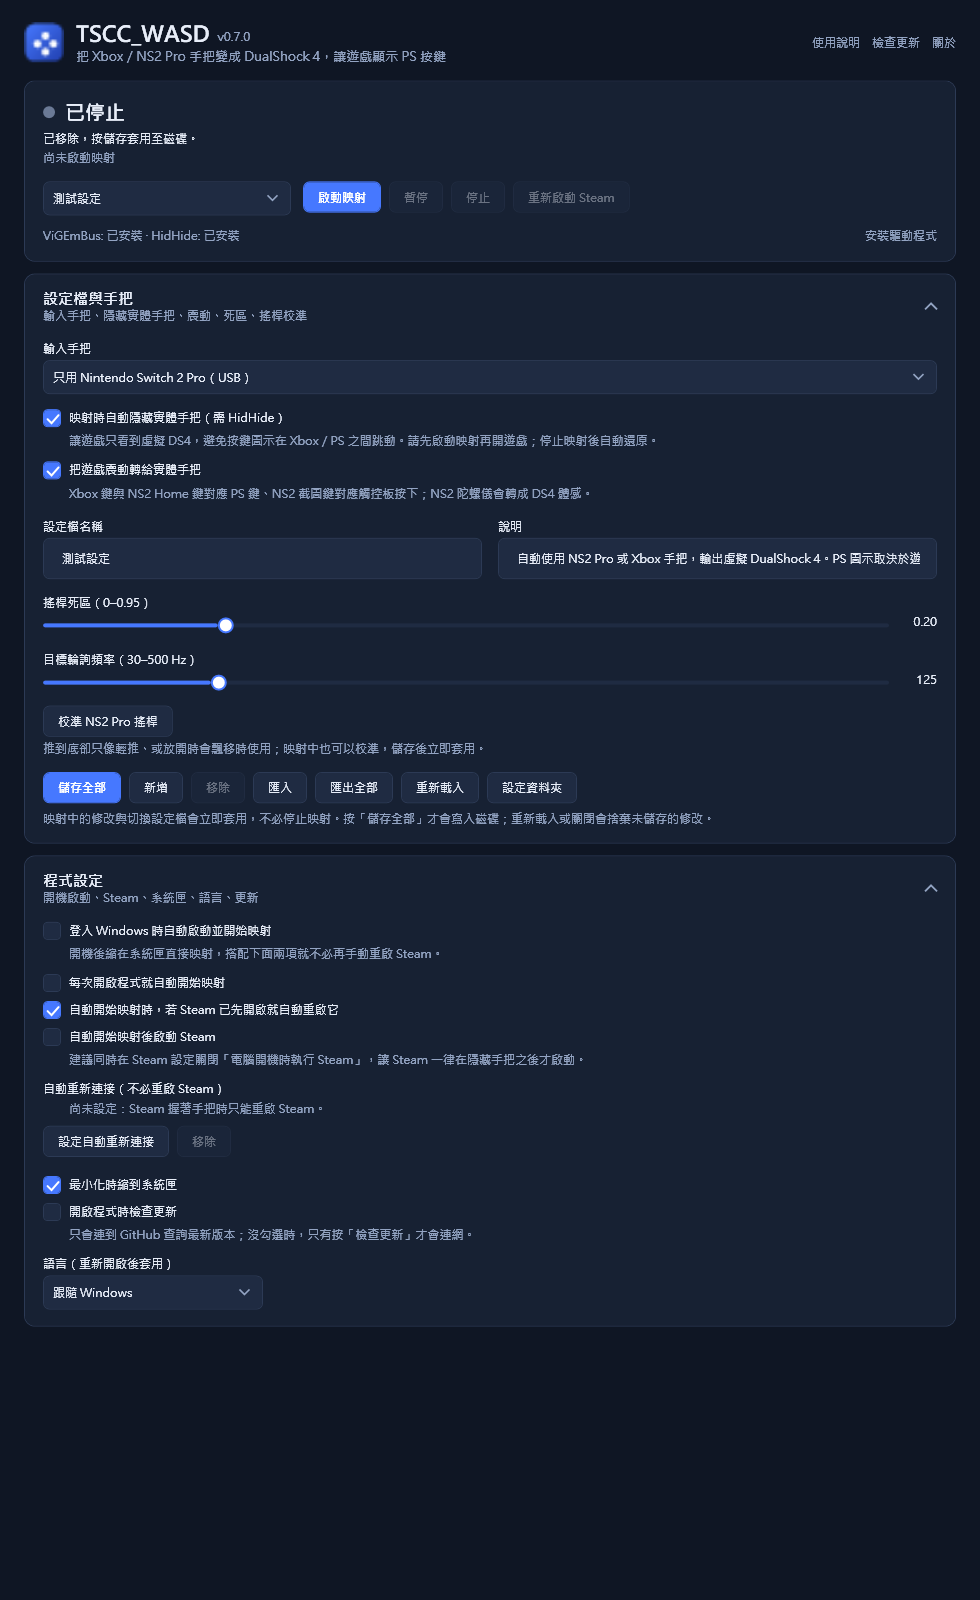
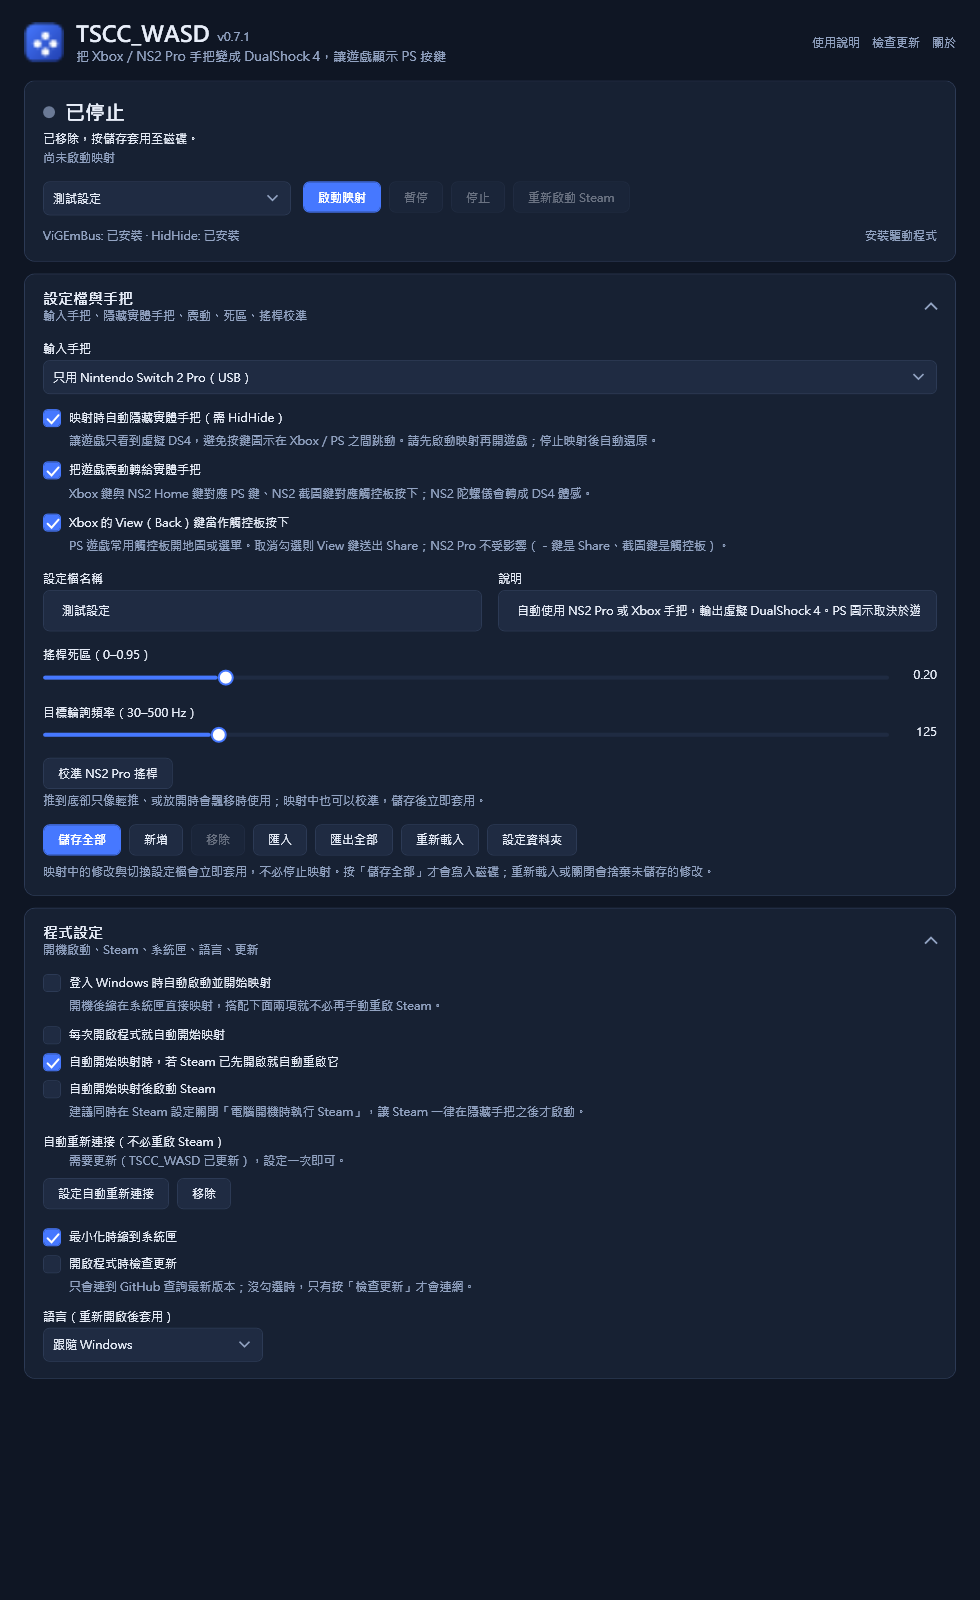
Send the Xbox View button as the DS4 touchpad click (0.7.1)
XInput has no spare button for the touchpad, so Xbox users could not press
it: View (Back) always became Share. View now sends the touchpad click by
default, with a per-profile option to keep it as Share. The NS2 Pro keeps
Minus as Share and Capture as the touchpad.

diff --git a/TSCC_WASD.App/MainWindow.xaml b/TSCC_WASD.App/MainWindow.xaml
@@ -95,6 +95,10 @@
                                       Content="{app:T Zh=把遊戲震動轉給實體手把, En='Forward game rumble to the physical controller'}"/>
                             <TextBlock Style="{StaticResource Hint}"
                                        Text="{app:T Zh='Xbox 鍵與 NS2 Home 鍵對應 PS 鍵、NS2 截圖鍵對應觸控板按下；NS2 陀螺儀會轉成 DS4 體感。', En='Xbox Guide and NS2 Home map to PS, NS2 Capture to touchpad click, and the NS2 gyro becomes DS4 motion.'}"/>
+                            <CheckBox IsChecked="{Binding SelectedProfile.XboxBackAsTouchpad}"
+                                      Content="{app:T Zh='Xbox 的 View（Back）鍵當作觸控板按下', En='Use the Xbox View (Back) button as the touchpad click'}"/>
+                            <TextBlock Style="{StaticResource Hint}"
+                                       Text="{app:T Zh='PS 遊戲常用觸控板開地圖或選單。取消勾選則 View 鍵送出 Share；NS2 Pro 不受影響（－鍵是 Share、截圖鍵是觸控板）。', En='PS games often open the map or menu with the touchpad. Unchecked, View sends Share. The NS2 Pro is unaffected (Minus is Share, Capture is the touchpad).'}"/>
                             <Grid Margin="0,4,0,0">
                                 <Grid.ColumnDefinitions><ColumnDefinition/><ColumnDefinition Width="16"/><ColumnDefinition/></Grid.ColumnDefinitions>
                                 <StackPanel>

diff --git a/TSCC_WASD.Core/Services/Input/XInputReader.cs b/TSCC_WASD.Core/Services/Input/XInputReader.cs
@@ -2,9 +2,28 @@ using System.Runtime.InteropServices;
 
 namespace TSCC_WASD.Core.Services.Input;
 
-/// <summary>Reads the first available XInput slot (0–3) using the Windows inbox API.</summary>
-public sealed class XInputReader : IInputReader, IRumbleTarget
+/// <summary>Readers whose Xbox View (Back) button can be sent as the DS4 touchpad click.</summary>
+public interface IXboxBackButtonOption
 {
+    bool BackAsTouchpad { get; set; }
+}
+
+/// <summary>Reads the first available XInput slot (0–3) using the Windows inbox API.</summary>
+public sealed class XInputReader : IInputReader, IRumbleTarget, IXboxBackButtonOption
+{
+    private volatile bool _backAsTouchpad = true;
+
+    /// <summary>
+    /// Xbox controllers have no touchpad button, so View (Back) stands in for it by default;
+    /// otherwise View stays Back and becomes DS4 Share.
+    /// </summary>
+    public bool BackAsTouchpad { get => _backAsTouchpad; set => _backAsTouchpad = value; }
+
+    public static GamepadButtonFlags MapBack(GamepadButtonFlags buttons, bool backAsTouchpad) =>
+        backAsTouchpad && buttons.HasFlag(GamepadButtonFlags.Back)
+            ? (buttons & ~GamepadButtonFlags.Back) | GamepadButtonFlags.Touchpad
+            : buttons;
+
     [DllImport("xinput1_4.dll", ExactSpelling = true)]
     [DefaultDllImportSearchPaths(DllImportSearchPath.System32)]
     private static extern uint XInputGetState(uint dwUserIndex, out State state);
@@ -36,6 +55,7 @@ public sealed class XInputReader : IInputReader, IRumbleTarget
             uint result = GetState(index, out state);
             if (result == 0)
             {
+                state.Gamepad.Buttons = MapBack(state.Gamepad.Buttons, _backAsTouchpad);
                 if (_slot != index) MoveRumble((int)index);
                 return true;
             }

diff --git a/TSCC_WASD.Core/Models/MappingProfile.cs b/TSCC_WASD.Core/Models/MappingProfile.cs
@@ -14,6 +14,7 @@ public class MappingProfile : INotifyPropertyChanged
     private InputDeviceType _inputType = InputDeviceType.Auto;
     private bool _hidePhysicalControllers = true;
     private bool _forwardRumble = true;
+    private bool _xboxBackAsTouchpad = true;
 
     private void Set<T>(ref T field, T value, [CallerMemberName] string? property = null)
     {
@@ -33,6 +34,12 @@ public class MappingProfile : INotifyPropertyChanged
 
     /// <summary>把遊戲送給虛擬 DS4 的震動轉給實體手把。</summary>
     public bool ForwardRumble { get => _forwardRumble; set => Set(ref _forwardRumble, value); }
+
+    /// <summary>
+    /// Xbox 的 View（Back）鍵送出 DS4 觸控板按下（PS 遊戲常用來開地圖或選單）；false 時送出 Share。
+    /// NS2 Pro 不受影響：它的－鍵送 Share、截圖鍵送觸控板。
+    /// </summary>
+    public bool XboxBackAsTouchpad { get => _xboxBackAsTouchpad; set => Set(ref _xboxBackAsTouchpad, value); }
 
     /// <summary>前景程式名稱 (不含路徑) 符合時自動套用。</summary>
     public string? MatchProcessName { get; set; }
@@ -71,6 +78,7 @@ public class MappingProfile : INotifyPropertyChanged
         {
             Id = Id, Name = Name, Description = Description,
             InputType = InputType, OutputType = OutputType, HidePhysicalControllers = HidePhysicalControllers, ForwardRumble = ForwardRumble,
+            XboxBackAsTouchpad = XboxBackAsTouchpad,
             PollingRateHz = PollingRateHz, DeadZone = DeadZone,
             MatchProcessName = MatchProcessName, RequireDrivers = RequireDrivers,
             Advanced = Advanced is null ? new() : new(Advanced)

diff --git a/TSCC_WASD.Tests/MappingSessionTests.cs b/TSCC_WASD.Tests/MappingSessionTests.cs
@@ -160,6 +160,37 @@ public class MappingSessionTests
         Assert.Equal((0, 0), input.Last);
     }
 
+    [Fact]
+    public void XboxViewButtonBecomesTouchpadOrStaysShare()
+    {
+        var pressed = GamepadButtonFlags.Back | GamepadButtonFlags.A;
+        Assert.Equal(GamepadButtonFlags.Touchpad | GamepadButtonFlags.A, XInputReader.MapBack(pressed, backAsTouchpad: true));
+        Assert.Equal(pressed, XInputReader.MapBack(pressed, backAsTouchpad: false));
+        Assert.Equal(GamepadButtonFlags.A, XInputReader.MapBack(GamepadButtonFlags.A, backAsTouchpad: true));
+        Assert.True(new MappingProfile().XboxBackAsTouchpad); // Default: the touchpad is reachable on Xbox.
+    }
+
+    [Fact]
+    public async Task ViewButtonOptionFollowsTheProfileLive()
+    {
+        var input = new OptionInput();
+        await using var session = new MappingSession(new MappingProfile(), input, new FakeOutput());
+        Assert.True(input.BackAsTouchpad);
+        session.UpdateProfile(new MappingProfile { XboxBackAsTouchpad = false });
+        Assert.False(input.BackAsTouchpad);
+
+        var auto = new AutoInputReader(new OptionInput(), new OptionInput { BackAsTouchpad = true });
+        auto.BackAsTouchpad = false;
+        Assert.False(auto.BackAsTouchpad);
+    }
+
+    private sealed class OptionInput : IInputReader, IXboxBackButtonOption
+    {
+        public bool BackAsTouchpad { get; set; }
+        public bool TryGetState(out State state) { state = default; return false; }
+        public void Dispose() { }
+    }
+
     private static async Task WaitUntil(Func<bool> condition)
     {
         var deadline = DateTime.UtcNow.AddSeconds(5);

diff --git a/TSCC_WASD.Core/Services/Input/AutoInputReader.cs b/TSCC_WASD.Core/Services/Input/AutoInputReader.cs
@@ -5,8 +5,15 @@ namespace TSCC_WASD.Core.Services.Input;
 /// The active source only changes when it disconnects or the other one receives deliberate input,
 /// so an idle controller that still streams neutral reports never steals control.
 /// </summary>
-public sealed class AutoInputReader : IInputReader, IMotionSource, IRumbleTarget
+public sealed class AutoInputReader : IInputReader, IMotionSource, IRumbleTarget, IXboxBackButtonOption
 {
+    /// <summary>Forwarded to the XInput source; the NS2 Pro has its own touchpad (Capture) button.</summary>
+    public bool BackAsTouchpad
+    {
+        get => _sources.OfType<IXboxBackButtonOption>().FirstOrDefault()?.BackAsTouchpad ?? false;
+        set { foreach (var source in _sources.OfType<IXboxBackButtonOption>()) source.BackAsTouchpad = value; }
+    }
+
     private const int TriggerThreshold = 30;
     private const int StickThreshold = 12000;
     private readonly IInputReader[] _sources;

diff --git a/TSCC_WASD.Core/Services/Mapping/MappingSession.cs b/TSCC_WASD.Core/Services/Mapping/MappingSession.cs
@@ -26,6 +26,12 @@ public sealed class MappingSession : IAsyncDisposable
         _output = output;
         _statusCallback = statusCallback;
         _output.RumbleRequested += OnRumble;
+        ApplyInputOptions(_profile);
+    }
+
+    private void ApplyInputOptions(MappingProfile profile)
+    {
+        if (_input is IXboxBackButtonOption option) option.BackAsTouchpad = profile.XboxBackAsTouchpad;
     }
 
     private void OnRumble(byte large, byte small)
@@ -42,6 +48,7 @@ public sealed class MappingSession : IAsyncDisposable
         var snapshot = profile.Snapshot();
         bool rumbleTurnedOff = _profile.ForwardRumble && !snapshot.ForwardRumble;
         _profile = snapshot;
+        ApplyInputOptions(snapshot);
         if (rumbleTurnedOff) StopRumble();
     }
 

diff --git a/docs/README.zh-TW.md b/docs/README.zh-TW.md
@@ -3,7 +3,7 @@
 免費開源的 Windows 工具：讓遊戲把你的 Xbox 或 Nintendo Switch 2 Pro 手把當成
 PlayStation DualShock 4，顯示 PS 按鍵圖示。對應付費軟體 reWASD 最常用的「偽裝成 DS4」功能，
 改用免費元件 ViGEmBus（虛擬 DS4）與 HidHide（隱藏實體手把）完成。
-目前為 **0.7.0 預覽版**，介面支援繁體中文與英文。
+目前為 **0.7.1 預覽版**，介面支援繁體中文與英文。
 
 [![在 Ko-fi 支持](https://img.shields.io/badge/Ko--fi-支持這個專案-FF5E5B?logo=ko-fi&logoColor=white)](https://ko-fi.com/ynyr5566)
 
@@ -29,7 +29,7 @@ PlayStation DualShock 4，顯示 PS 按鍵圖示。對應付費軟體 reWASD 最
 - **不必停止就能改設定：** 映射中修改設定、切換設定檔都會立即套用。「暫停」讓遊戲收到放開所有按鍵的 DS4，
   實體手把仍保持隱藏，繼續時不必處理 Steam；「停止」則完全釋放手把。
 - **震動、PS 鍵與體感：** 遊戲的震動會轉給 Xbox 或 NS2 Pro；Xbox 的 Guide 鍵與 NS2 的 Home 鍵當作 PS 鍵，
-  NS2 的截圖鍵當作觸控板按下；NS2 Pro 的陀螺儀與加速度計會轉成 DS4 體感。
+  Xbox 的 View 鍵（可改成 Share）與 NS2 的截圖鍵當作觸控板按下；NS2 Pro 的陀螺儀與加速度計會轉成 DS4 體感。
 - **設定一次就好：** 可選擇登入 Windows 時自動啟動、縮在系統匣直接映射，並在隱藏手把後才啟動或重啟 Steam，
   從此不用手動重啟 Steam。
 - **下載一次就齊全：** Release ZIP 內含 .NET 執行環境，以及 ViGEmBus、HidHide 的官方安裝程式。

diff --git a/README.md b/README.md
@@ -5,7 +5,7 @@ controller as a PlayStation DualShock 4, so they show PS button prompts.**
 
 It covers one common reWASD use case ("pretend my controller is a DS4") using free,
 open components: ViGEmBus for the virtual DS4 and HidHide to hide the real controller.
-Built with C# / .NET 10 / WPF. **MIT licensed · v0.7.0 preview.** English and Traditional Chinese UI.
+Built with C# / .NET 10 / WPF. **MIT licensed · v0.7.1 preview.** English and Traditional Chinese UI.
 
 [![Support on Ko-fi](https://img.shields.io/badge/Ko--fi-support%20this%20project-FF5E5B?logo=ko-fi&logoColor=white)](https://ko-fi.com/ynyr5566)
 
@@ -40,7 +40,8 @@ details and app settings sit in collapsible sections (shown expanded
   **Pause** gives games a neutral DS4 while the real controllers stay hidden, so nothing has to
   be re-detected. **Stop** still releases everything.
 - **Rumble, PS button and motion.** Game rumble is forwarded to the Xbox or NS2 Pro. The Xbox
-  Guide and NS2 Home buttons act as the PS button, and NS2 Capture as the touchpad click. The NS2
+  Guide and NS2 Home buttons act as the PS button; Xbox View (or Share, if you prefer) and NS2
+  Capture act as the touchpad click. The NS2
   Pro gyro and accelerometer become DS4 motion.
 - **Set and forget.** Optionally start with Windows in the notification area, begin mapping
   automatically, and start or restart Steam after the controllers are hidden, so you never

diff --git a/CHANGELOG.md b/CHANGELOG.md
@@ -1,5 +1,13 @@
 # Changelog
 
+## 0.7.1 — preview
+
+- Fixed: an Xbox controller could not press the DS4 touchpad, because View (Back) was sent as
+  Share and XInput has no other spare button. View now sends the **touchpad click** by default
+  (PS games often use it for the map or menu). A new per-profile option, *Use the Xbox View (Back)
+  button as the touchpad click*, switches it back to Share; it applies while mapping. The NS2 Pro
+  is unchanged (Minus is Share, Capture is the touchpad).
+
 ## 0.7.0 — preview
 
 - **No more Steam restarts.** When Steam already holds the physical controller, *automatic
